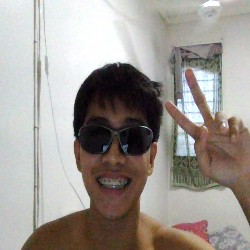
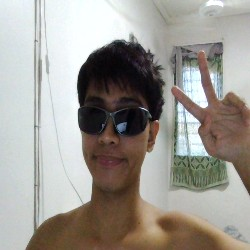
landing page modification

diff --git a/templates/attendancechecker.html b/templates/attendancechecker.html
@@ -6,6 +6,7 @@
     <meta http-equiv="X-UA-Compatible" content="ie=edge">
     <title>Student Information V2.0</title>
     <link href="https://cdnjs.cloudflare.com/ajax/libs/font-awesome/6.0.0/css/all.min.css" rel="stylesheet">
+    <link href="https://fonts.googleapis.com/css2?family=Roboto:wght@400;500;700&display=swap" rel="stylesheet">
     <style>
         * {
             margin: 0;
@@ -14,13 +15,59 @@
         }
 
         body {
-            font-family: 'Segoe UI', Tahoma, Geneva, Verdana, sans-serif;
-            background: linear-gradient(135deg, #667eea 0%, #764ba2 100%), 
-                        url("{{ url_for('static', filename='sk_logo.png') }}") no-repeat center center fixed;
-            background-size: cover;
+            font-family: 'Roboto', sans-serif;
+            background: linear-gradient(135deg, #667eea 0%, #764ba2 100%);
+            color: #333;
             min-height: 100vh;
-            position: relative;
-            overflow-x: hidden;
+            margin: 0;
+            display: flex;
+            flex-direction: column;
+            align-items: center;
+            justify-content: center;
+        }
+
+        .w3-card {
+            box-shadow: 0 4px 8px rgba(0, 0, 0, 0.1);
+            border-radius: 8px;
+            overflow: hidden;
+        }
+
+        .w3-button {
+            transition: background-color 0.3s, transform 0.3s;
+        }
+
+        .w3-button:hover {
+            background-color: #555;
+            transform: translateY(-2px);
+        }
+
+        .w3-input {
+            border: 1px solid #ddd;
+            border-radius: 4px;
+            padding: 8px;
+            margin-bottom: 10px;
+        }
+
+        .w3-table {
+            width: 100%;
+            border-collapse: collapse;
+        }
+
+        .w3-table th, .w3-table td {
+            padding: 12px;
+            border-bottom: 1px solid #ddd;
+        }
+
+        .w3-table th {
+            background-color: #f4f4f4;
+        }
+
+        footer {
+            margin-top: auto;
+            padding: 10px;
+            background-color: #333;
+            color: #fff;
+            text-align: center;
         }
 
         /* Animated background elements */

diff --git a/templates/attendance.html b/templates/attendance.html
@@ -20,11 +20,11 @@
             <table class="w3-table w3-bordered w3-striped w3-hoverable w3-centered">
                 <thead class="w3-blue">
                     <tr>
-                        <th>Student Number</th>
+                        <th>Youth ID Number</th>
                         <th>Last Name</th>
                         <th>First Name</th>
                         <th>Date</th>
-                        <th>Status</th>
+                        
                     </tr>
                 </thead>
                 <tbody>
@@ -34,7 +34,7 @@
                     <td>{{ record.lastname }}</td>
                     <td>{{ record.firstname }}</td>
                     <td>{{ record.date }}</td>
-                    <td>{{ record.status }}</td>
+                    
                 </tr>
                     {% endfor %}
 

diff --git a/templates/index.html b/templates/index.html
@@ -150,4 +150,6 @@
     }
 </script>
 
+<link href="https://fonts.googleapis.com/css2?family=Roboto:wght@400;500;700&display=swap" rel="stylesheet">
+
 {% endblock %}

diff --git a/app.py b/app.py
@@ -200,7 +200,7 @@ def attendance():
         ORDER BY a.date DESC
         """
         attendance_records = getprocess(sql)
-        return render_template("attendance.html", pagetitle="View Attendance", attendance_records=attendance_records)
+        return render_template("attendance.html", pagetitle="View Youth Logs", attendance_records=attendance_records)
     except Exception as e:
         flash(f"Failed to retrieve attendance: {e}")
         return render_template("attendance.html", attendance_records=[])
